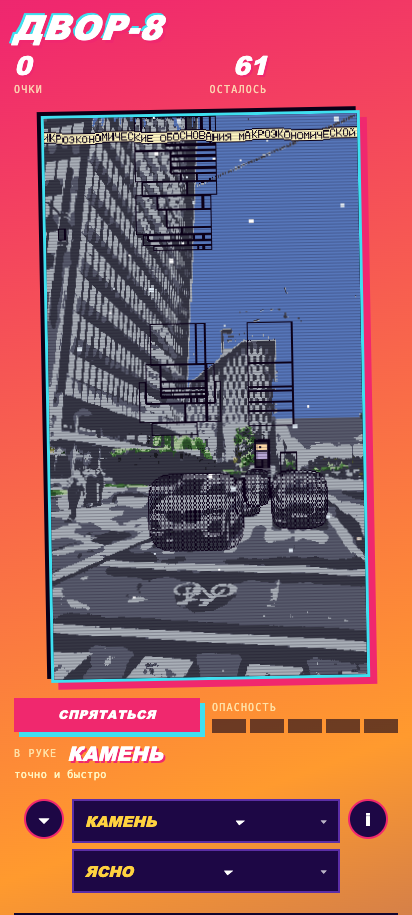
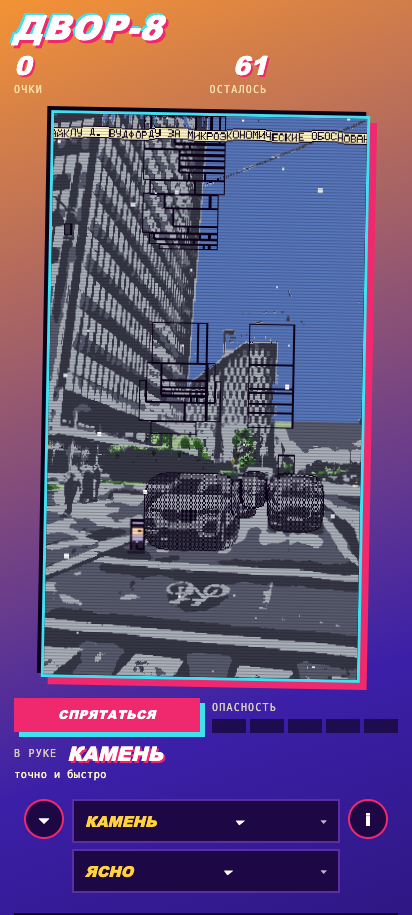
Windows sit on the facade's own grid: the openings found are measured for pitch and every sprite is snapped to it

diff --git a/src/vector.js b/src/vector.js
@@ -73,12 +73,20 @@ function entryFor(palette, r, g, b) {
   const { h, s, v } = rgb2hsv(r, g, b);
   let family = null;
   let bestD = Infinity;
+  // SATURATION IS NOT A TIE-BREAKER, IT IS HALF THE DECISION.
+  //
+  // The first version weighted hue at 1.0 and saturation at 0.35, so a pixel with saturation 0.5 - green foliage,
+  // a yellow kerb, a red brick - could still land in the NEUTRAL ramps (stone sat 0.15, metal 0.10, dusk 0.12) and
+  // the whole frame came out grey. That is the creator's "colors are completely wrong": the photograph's colour was
+  // being thrown away by an arithmetic choice. Saturation now carries comparable weight, and a pixel that HAS colour
+  // is not allowed into a family that has none.
+  const NEUTRAL = new Set(['stone', 'metal', 'dusk']);
   for (const R of RAMPS) {
     if (R.name === 'sky' && !paintingSky) continue;          // the sky belongs to the sky mask alone
+    if (s >= 0.30 && NEUTRAL.has(R.name) && !paintingSky) continue;   // colour does not become concrete
     let dh = Math.abs(R.hue - h);
     if (dh > 180) dh = 360 - dh;
-    // hue dominates, saturation and value break ties: a desaturated pixel is claimed by the nearest hue it HAS
-    const d = (dh / 180) * 1.0 + Math.abs((R.sat || 0) - s) * 0.35;
+    const d = (dh / 180) * 1.0 + Math.abs((R.sat || 0) - s) * 1.1;
     if (d < bestD) { bestD = d; family = R.name; }
   }
   if (!family) family = 'stone';
@@ -897,6 +905,34 @@ export function trace(rgba, w, h, opts = {}) {
     const winEntry = entryFor(palette, 150, 158, 172);     // the inner lip: one step down from the frame
     const glassEntry = entryFor(palette, 92, 116, 152);    // the glass: a mid blue-grey, sky reflected
     const sillEntry = entryFor(palette, 216, 214, 206);    // the sill: palest, under the frame
+    // ---- THE WINDOWS SIT ON THE FACADE'S OWN GRID (docs/CRITERIA.md: "rebuilt on the photo's column and floor
+    // grid"). The finder returns boxes wherever it saw a dark opening, so they landed at the photograph's own
+    // jitter and read as RECTANGLES THAT CORRESPOND TO NOTHING. The known technique - and v6's own - is to take the
+    // openings that WERE found, measure their pitch (the median gap between neighbouring columns and rows), and snap
+    // every sprite onto that grid: rows line up, floors line up, and the facade reads as architecture.
+    {
+      const all = [...windowsFound, ...gridWindows];
+      const med = (arr) => { const a2 = arr.slice().sort((x, y) => x - y); return a2[a2.length >> 1] || 0; };
+      const cx = all.map((q) => q.cx), cy = all.map((q) => q.cy);
+      const gapsX = [], gapsY = [];
+      const sx = cx.slice().sort((x, y) => x - y), sy = cy.slice().sort((x, y) => x - y);
+      for (let i = 1; i < sx.length; i += 1) { const g = sx[i] - sx[i - 1]; if (g > 3 && g < w * 0.5) gapsX.push(g); }
+      for (let i = 1; i < sy.length; i += 1) { const g = sy[i] - sy[i - 1]; if (g > 3 && g < h * 0.5) gapsY.push(g); }
+      const px2 = Math.max(6, Math.round(med(gapsX) || 0)), py2 = Math.max(6, Math.round(med(gapsY) || 0));
+      if (px2 > 6 && py2 > 6) {
+        const x0 = sx[0] || 0, y0 = sy[0] || 0;
+        for (const q of all) {
+          const nx = Math.round((q.cx - x0) / px2) * px2 + x0;
+          const ny = Math.round((q.cy - y0) / py2) * py2 + y0;
+          const dx = Math.round(nx - q.cx), dy = Math.round(ny - q.cy);
+          if (!dx && !dy) continue;
+          q.x += dx; q.y += dy; q.cx += dx; q.cy += dy;
+          for (let i2 = 0; i2 < q.px.length; i2 += 1) q.px[i2] += dy * w + dx;
+        }
+        if (typeof window !== 'undefined') window.__winGrid = { px: px2, py: py2, n: all.length };
+      }
+    }
+
     for (const q of [...windowsFound, ...gridWindows]) {
       // glass inside, frame round it: the outer ring of the opening is the frame, the rest is glass
       for (const p2 of q.px) {
